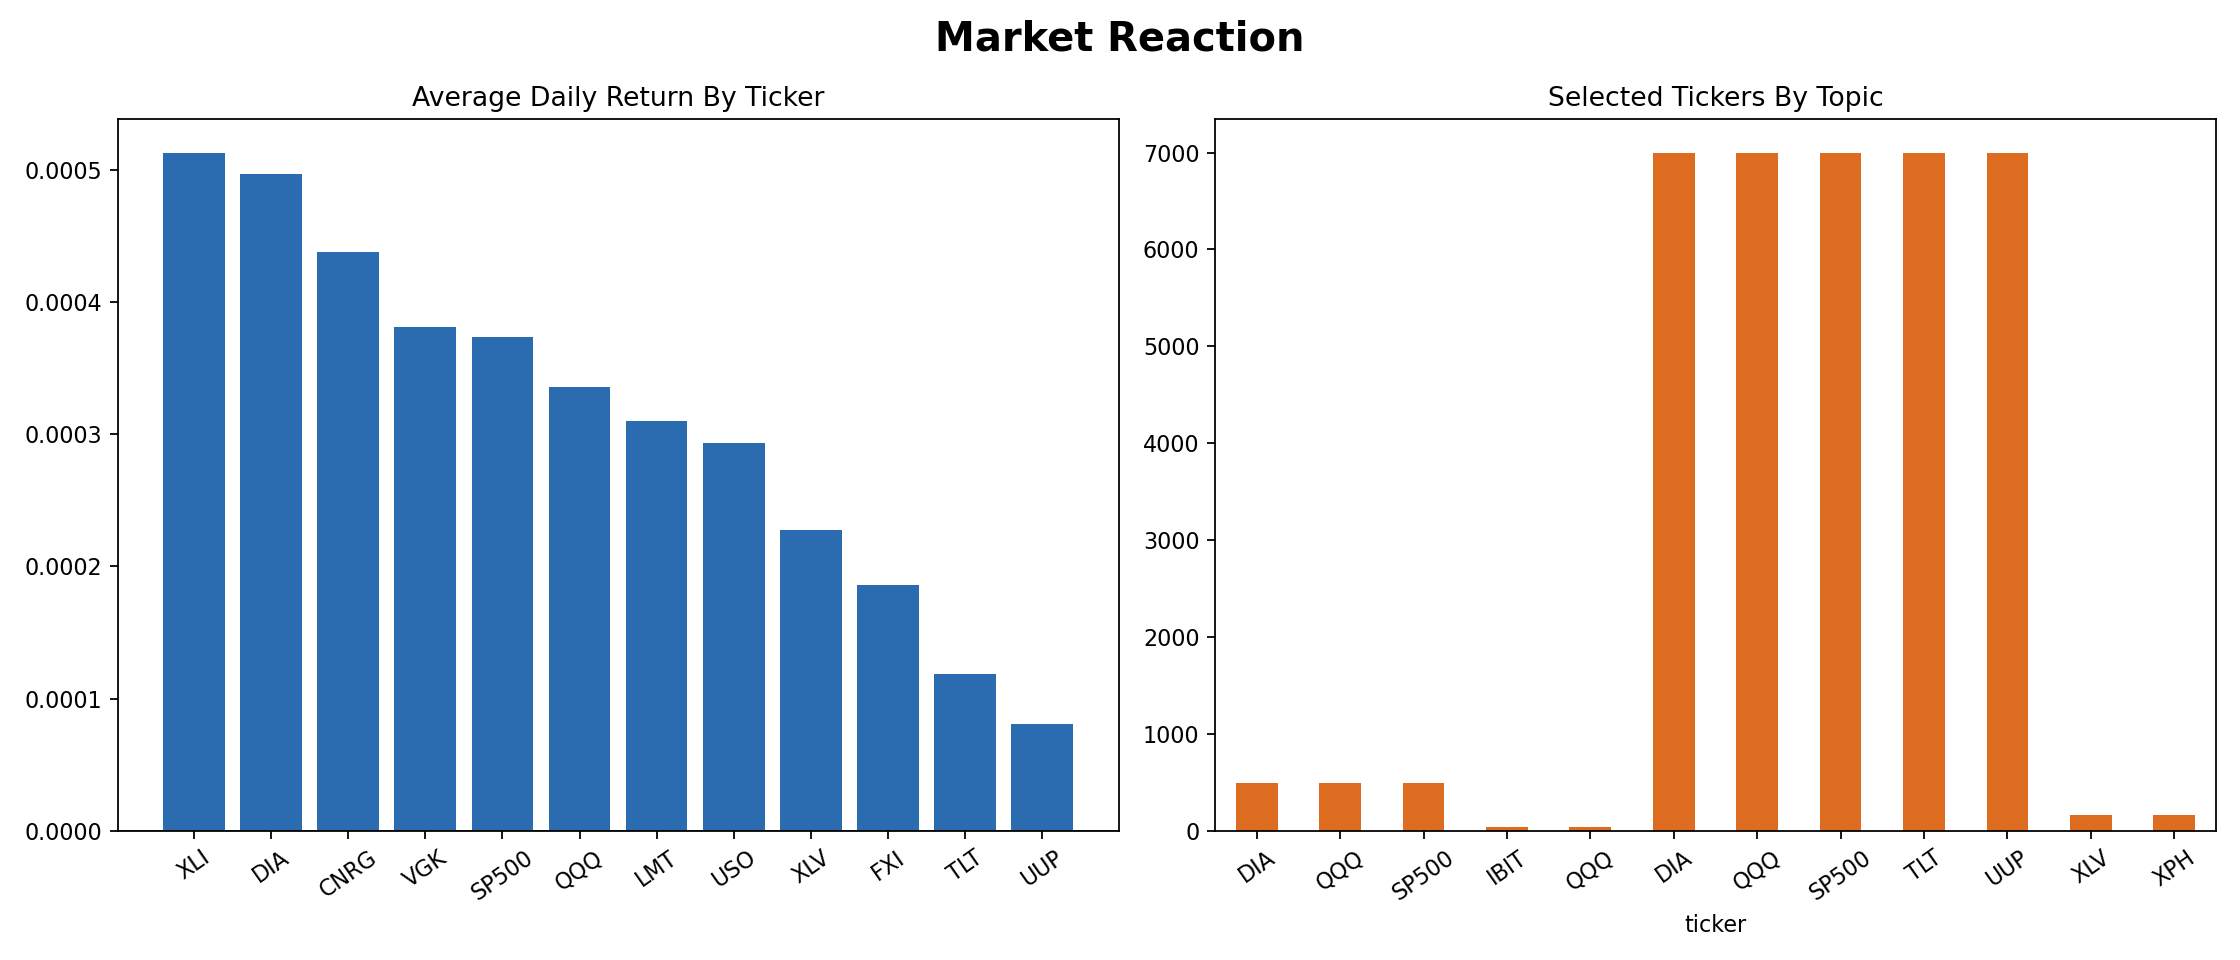
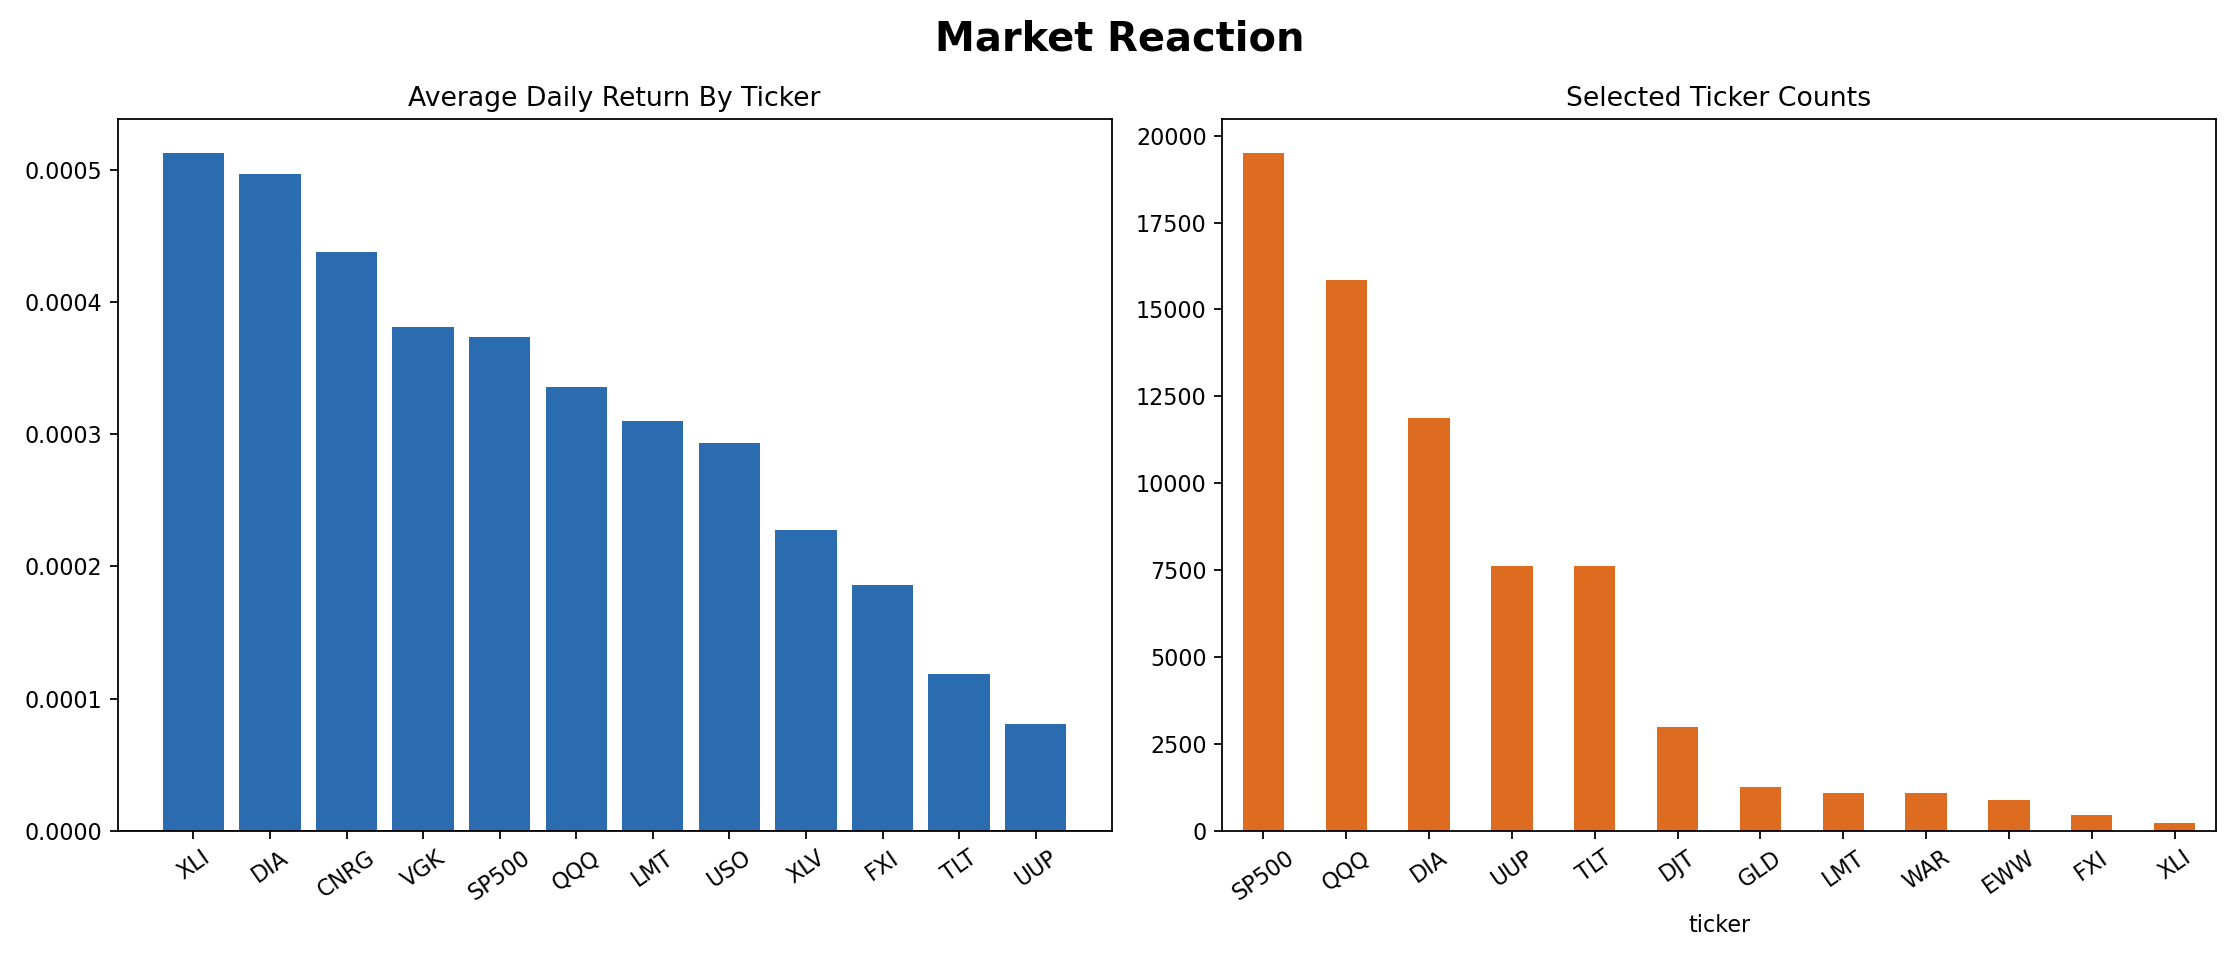
Update reporting visuals

diff --git a/src/reporting.py b/src/reporting.py
@@ -321,8 +321,14 @@ def render_market_reaction(df: pd.DataFrame, tables: dict[str, pd.DataFrame], pl
         axes[1].text(0.05, 0.8, "No selected ticker rows available.", fontsize=12)
         axes[1].axis("off")
     else:
-        selected.head(12).plot(kind="bar", x="ticker", y="post_count", ax=axes[1], color="#dd6b20", legend=False)
-        axes[1].set_title("Selected Tickers By Topic")
+        selected_totals = (
+            selected.groupby("ticker", as_index=False)["post_count"]
+            .sum()
+            .sort_values("post_count", ascending=False)
+            .head(12)
+        )
+        selected_totals.plot(kind="bar", x="ticker", y="post_count", ax=axes[1], color="#dd6b20", legend=False)
+        axes[1].set_title("Selected Ticker Counts")
         axes[1].tick_params(axis="x", rotation=35)
     fig.tight_layout()
     fig.savefig(path, dpi=160)
